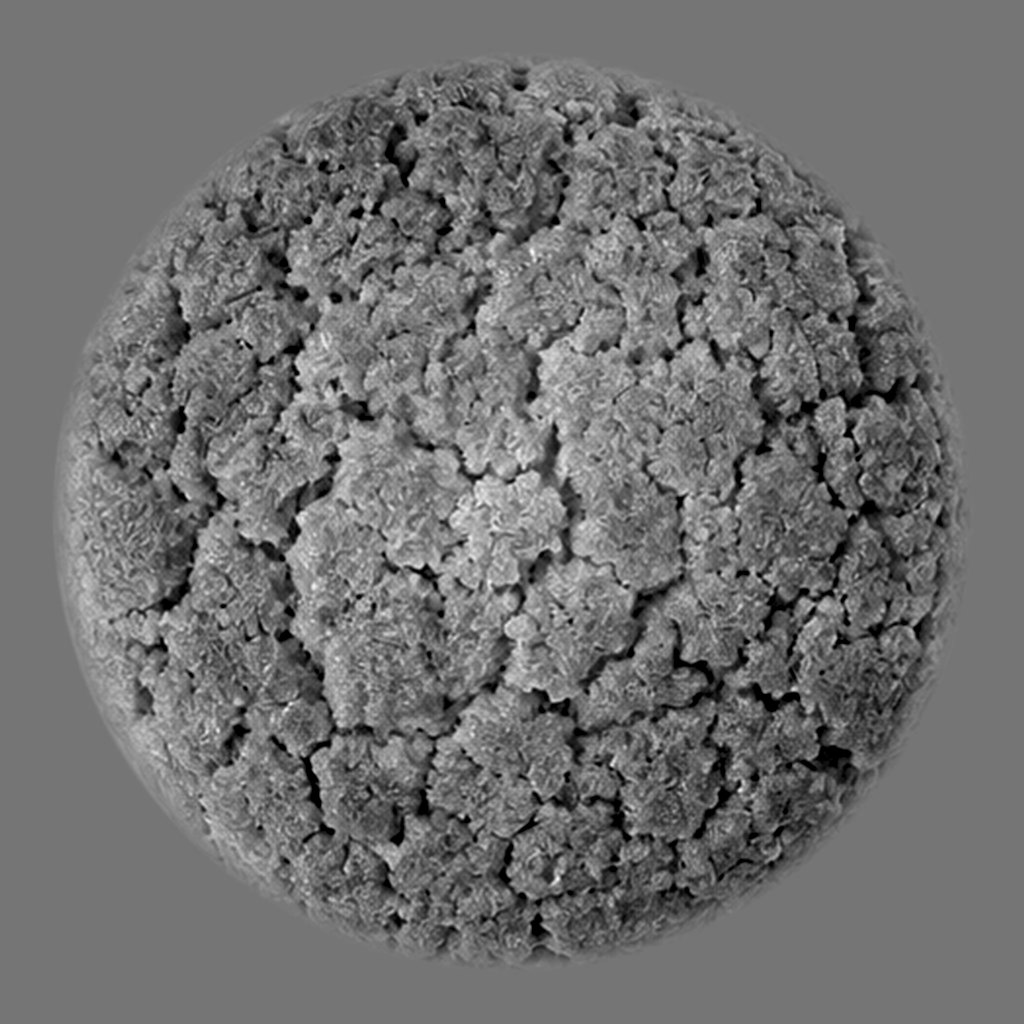
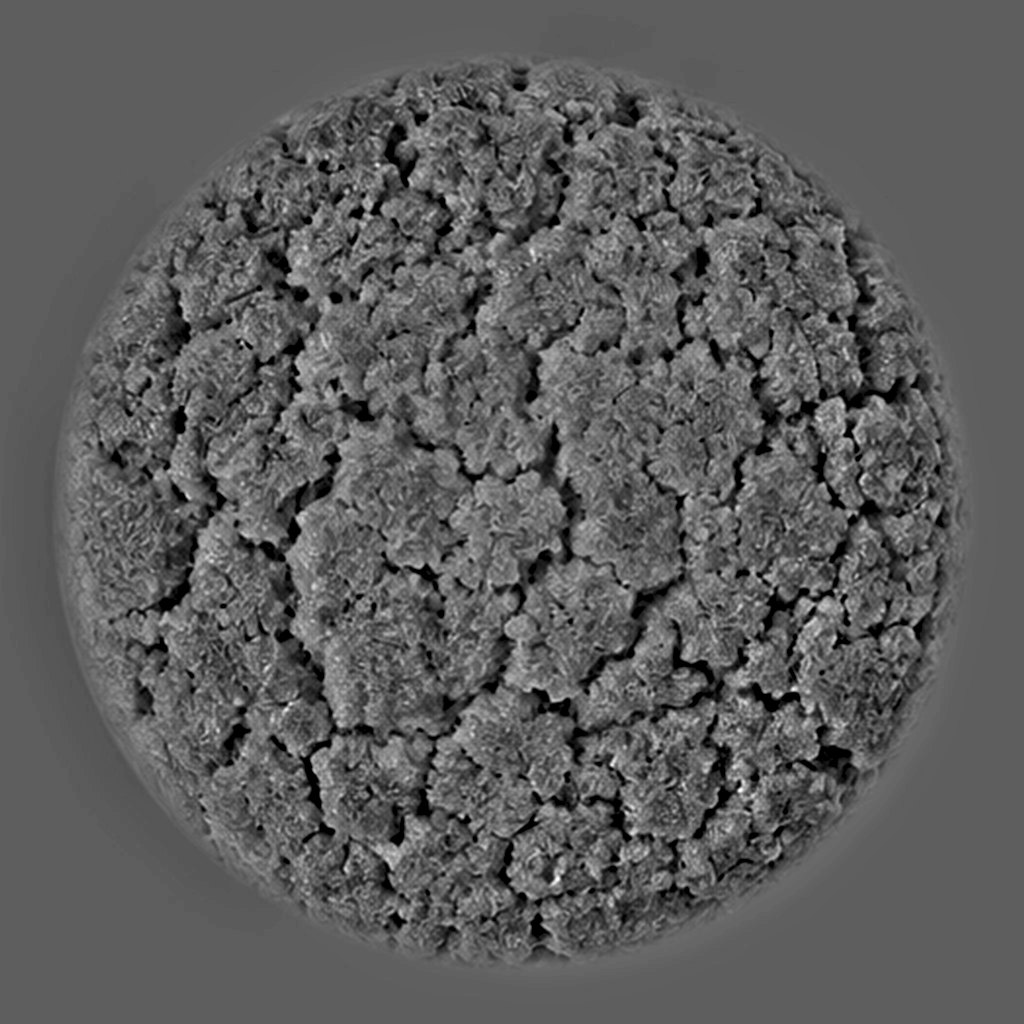
Keep the biscuit turning, and de-light its texture
Two faults, both making a 3D object read as a flat picture of one.

It was not moving. ParallaxGroup REPLACED its idle spin with pointer-following
whenever a pointer was available, so on a desktop with the mouse held still the
cookie sat perfectly motionless. Replayed the frame loop to confirm it: 0.0000
radians after three seconds. The spin now always advances and the cursor lean is
added on top, so the subject is never static but still answers the pointer. The
hero asks for a faster turn than the default — one revolution every 21s.

Its shading was painted on. The albedo came straight off a photograph, which
carries the light it was shot under: a bright side, a shaded side, a sheen.
Mapped onto a mesh and lit again, those highlights stay locked to the surface
and turn with it, so the shading never answers the scene's lights — which is
exactly what makes it look like an image wrapped round a shape. The bake now
divides out a heavy blur of the image (its lighting field) and re-centres on the
mean, leaving even brightness and only the crumb, so three.js does the shading.
bumpScale goes to 1.15 to compensate: with the photo's own shading gone, the
relief is what has to catch the light. Bump is also derived from the de-lit
albedo now, not the lit one, which would have embossed the studio lighting into
the geometry on top of the crumb.

Changed region(s): [[0.2188, 0.2188, 0.75, 0.6875], [0.0, 0.1562, 0.3125, 0.9062], [0.5, 0.0, 0.7188, 0.125]]

diff --git a/src/components/three/Rig.tsx b/src/components/three/Rig.tsx
@@ -32,8 +32,14 @@ export function StudioEnv() {
 }
 
 /**
- * Pointer parallax. The cookie leans toward the cursor by up to ±6°, damped so
- * it settles rather than snapping. Falls back to pure idle rotation on touch.
+ * Idle turn, with pointer parallax layered on top.
+ *
+ * The turn is unconditional and that is the point. This used to REPLACE the
+ * idle spin with pointer-following whenever a pointer was available, so on a
+ * desktop with the mouse held still the cookie sat perfectly motionless — and a
+ * motionless 3D object wearing a photographic texture reads as a flat image
+ * rather than a thing. The spin now always advances and the cursor lean is
+ * added to it, so the subject is never static but still answers the pointer.
  */
 export function ParallaxGroup({
   children,
@@ -49,6 +55,8 @@ export function ParallaxGroup({
   const ref = useRef<THREE.Group>(null);
   const { pointer } = useThree();
   const target = useRef({ x: 0, y: 0 });
+  const lean = useRef({ x: 0, y: 0 });
+  const spin = useRef(0);
 
   useFrame((_, delta) => {
     const g = ref.current;
@@ -59,16 +67,21 @@ export function ParallaxGroup({
     if (enabled) {
       target.current.x = -pointer.y * THREE.MathUtils.degToRad(maxTilt);
       target.current.y = pointer.x * THREE.MathUtils.degToRad(maxTilt);
-    }
-
-    // critically-damped-ish follow
-    g.rotation.x += (target.current.x - g.rotation.x) * Math.min(1, d * 4);
-
-    if (enabled) {
-      g.rotation.y += (target.current.y - g.rotation.y) * Math.min(1, d * 4);
     } else {
-      g.rotation.y += d * idleSpeed;
+      target.current.x = 0;
+      target.current.y = 0;
     }
+
+    // critically-damped-ish follow, tracked separately from the spin so the
+    // easing never fights a target that is itself moving
+    const k = Math.min(1, d * 4);
+    lean.current.x += (target.current.x - lean.current.x) * k;
+    lean.current.y += (target.current.y - lean.current.y) * k;
+
+    spin.current += d * idleSpeed;
+
+    g.rotation.x = lean.current.x;
+    g.rotation.y = spin.current + lean.current.y;
   });
 
   return <group ref={ref}>{children}</group>;

diff --git a/src/components/three/scenes/HeroScene.tsx b/src/components/three/scenes/HeroScene.tsx
@@ -50,8 +50,13 @@ export default function HeroScene({
   interactive: boolean;
   progress?: MotionValue<number>;
 }) {
+  /*
+   * idleSpeed is raised well above the default here: the hero subject is the
+   * one thing on the page that has to read as an object rather than a picture
+   * of one, and it now turns whether or not the pointer moves.
+   */
   const body = (
-    <ParallaxGroup enabled={interactive} maxTilt={6}>
+    <ParallaxGroup enabled={interactive} maxTilt={6} idleSpeed={0.3}>
       {/*
        * Dropped below the headline and tilted toward the camera. At the old
        * rotation it presented almost edge-on, which read as a beige smear

diff --git a/src/components/three/Cookie.tsx b/src/components/three/Cookie.tsx
@@ -95,7 +95,12 @@ export default function Cookie({
         ref={matRef}
         map={map}
         bumpMap={bumpMap}
-        bumpScale={0.5}
+        /*
+         * Pushed up because the albedo is de-lit: with the photograph's own
+         * shading divided out, the relief is what has to make the crumb catch
+         * the light, so it carries more of the surface than it otherwise would.
+         */
+        bumpScale={1.15}
         color={tint}
         roughness={0.82}
         metalness={0}

diff --git a/README.md b/README.md
@@ -77,6 +77,14 @@ underside and three-quarter — and they now drive it:
   geometric displacement was softened to suit (`surfAmp` 0.014 → 0.009), because
   the bump map now carries the fine detail and the mesh only has to supply the
   coarse lumpiness the silhouette needs.
+- The albedo is **de-lit** before it ships. A photograph carries the light it was
+  shot under, and painted onto a 3D object those highlights stay locked to the
+  surface and turn with it — so the shading never answers the scene's lights and
+  the whole thing reads as a picture wrapped round a shape. The bake divides out
+  a heavy blur of the image (its lighting field) and re-centres on the mean,
+  leaving even brightness and only the crumb. `bumpScale` is correspondingly high
+  (1.15): with the photo's own shading gone, the relief is what has to catch the
+  light.
 - The **profile** came off the side view. The real biscuit is not symmetric: the
   top is domed, the underside is flat where it sat on the tray, and the widest
   point of the rim sits below the midline. Thickness lands at 0.194 of the
